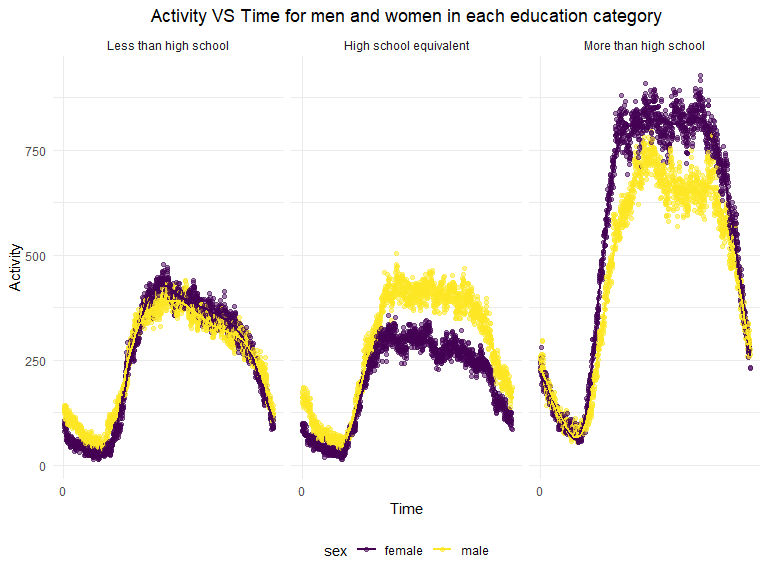
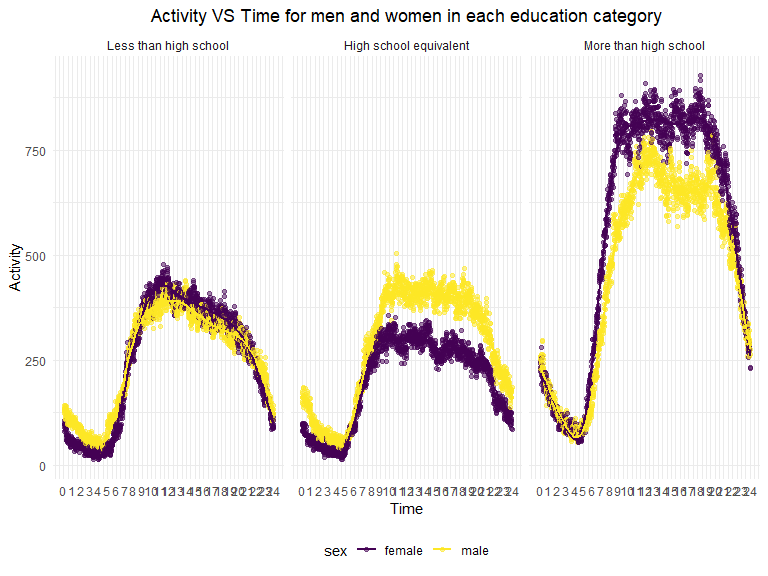
delete problem 1

Changed region(s): [[0.7188, 0.8438, 1.0, 0.875], [0.4062, 0.8438, 0.6875, 0.875], [0.0938, 0.8438, 0.375, 0.875]]

diff --git a/p8105_hw3_sc5126.md b/p8105_hw3_sc5126.md
@@ -308,7 +308,7 @@ plot_data %>%
   geom_point(alpha = .5) + 
   geom_smooth(se = FALSE) + 
   scale_x_continuous(
-    breaks = c(0:24)*3600, 
+    breaks = c(0:24)*60, 
     labels = c(0:24)) +
   facet_grid(~education) +
   xlab("Time") + 
@@ -327,7 +327,7 @@ final_data %>%
   geom_point(alpha = .5) + 
   geom_smooth(se = FALSE) + 
   scale_x_continuous(
-    breaks = c(0:24)*3600, 
+    breaks = c(0:24)*60, 
     labels = c(0:24)) +
   facet_grid(~education) +
   xlab("Time") + 
@@ -345,8 +345,8 @@ during the day time for both male and female and reach a relative peak
 during noon.
 
 In “less than high school” level, females have lower activity than males
-in early morning and late night, which becomes the opposite during the
-day.
+in early morning (before 8 am) and late night (after 10 pm), which
+becomes the opposite during the day.
 
 In “high school equivalent” level, females have lower activity than
 males in almost all day.
